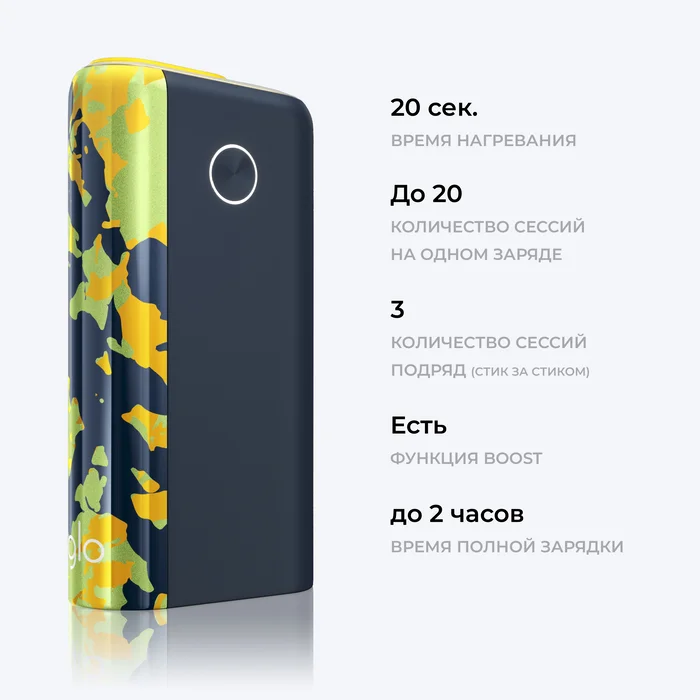
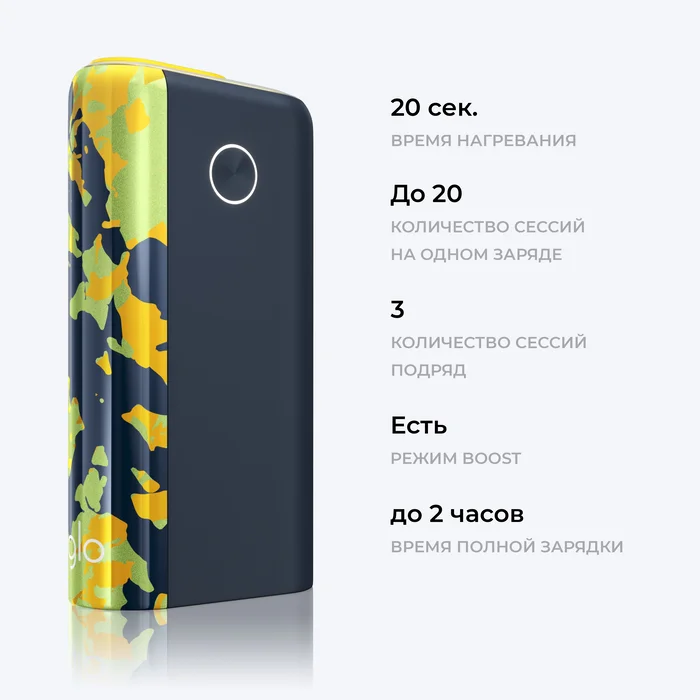
20220328

Changed region(s): [[0.54, 0.63, 0.78, 0.66], [0.66, 0.51, 0.84, 0.54], [0.66, 0.72, 0.72, 0.75]]

diff --git a/pages/warranty.vue b/pages/warranty.vue
@@ -3,12 +3,12 @@
     <div class="container pv-10">
       <div v-if="$i18n.locale != 'uz'">
         <h1 data-title-line>ГАРАНТИЯ</h1>
-        <p>Действие гарантии Настоящая гарантия предоставляется АО СП «УЗБАТ А.О.» покупателям, которые законно приобрели устройство для нагревания табака glo и его комплектующие (далее – «Товар» или «Устройство glo») на территории Республики Узбекистан. По условиям настоящей гарантии АО СП «УЗБАТ А.О.» при предъявлении покупателем требований о недостатках товара в течение гарантийного срока вправе по своему усмотрению: i) устранить неисправность Товара либо ii) заменить неисправный Товар на Товар, который не имеет дефектов. </p>
+        <p>Настоящая гарантия предоставляется АО СП «УЗБАТ А.О.» покупателям, которые законно приобрели устройство для нагревания табака glo и его комплектующие (далее – «Товар» или «Устройство glo») на территории Республики Узбекистан. По условиям настоящей гарантии АО СП «УЗБАТ А.О.» при предъявлении покупателем требований о недостатках товара в течение гарантийного срока вправе по своему усмотрению: i) устранить неисправность Товара либо ii) заменить неисправный Товар на Товар, который не имеет дефектов. </p>
         <p>Настоящая гарантия покрывает только такие неисправности, которые возникли в течение гарантийного срока, при условии надлежащего использования Устройства glo в соответствии с Руководством пользователя Устройства glo. </p>
         <p>Настоящая гарантия сохраняет свою силу, если покупатель передал Устройство glo третьему лицу. В таком случае покупатель обязуется предоставить настоящий гарантийный талон новому владельцу вместе с документами, подтверждающими факт приобретения Устройства glo. Товар, который был возвращен покупателем, становится собственностью АО СП «УЗБАТ А.О.». При замене товара любой предоставленный взамен товар становится собственностью покупателя. </p>
         <p>При замене Устройства glo или любого из его комплектующих гарантийный срок не исчисляется заново. Настоящая гарантия действительна только в Республике Узбекистан. </p>
         <h3>Срок гарантии</h3>
-        <p>Срок действия данной гарантии на отдельные комплектующие Устройства glo: Устройство для нагревания табака glo - 1 (один) год с даты покупки; USB-кабель - 1 (один) год с даты покупки; Щетка для чистки - 1 (один) год с даты покупки. Срок службы устройства для нагревания табака glo и его комплектующих составляет 12 (двенадцать) месяцев с даты покупки. </p>
+        <p>Срок действия данной гарантии на отдельные комплектующие Устройства glo: Устройство для нагревания табака glo - 1 год с даты покупки; USB-кабель - 1 год с даты покупки; Щетка для чистки - 1 год с даты покупки. Срок службы устройства для нагревания табака glo и его комплектующих составляет 12 (двенадцать) месяцев с даты покупки. </p>
         <h3>Исключения из гарантии</h3>
         <p>Следующие повреждения и неисправности являются исключением из гарантии: </p>
         <ul>
@@ -88,7 +88,7 @@ export default {
     
   },
   mounted(){
-    
+    $(".zoomContainer").remove()
   },
  
 }

diff --git a/pages/products/_product_id.vue b/pages/products/_product_id.vue
@@ -111,7 +111,7 @@
                         </svg>
                       </div>
                       <div class="desc-content ml-3">
-                        <h4>Функция Boost</h4>
+                        <h4>Режим Boost</h4>
                         <div>Ускоренный нагрев устройства за 15 секунд.</div>
                       </div>
                     </div>
@@ -123,8 +123,8 @@
                         </svg>
                       </div>
                       <div class="desc-content ml-3">
-                        <h4>До 20 сессий на одном заряде</h4>
-                        <div>Зарядка устройства занимает до 2 часов и обеспечивает до 20 сеансов использования.</div>
+                        <h4>До 20 сессий на одном заряде*</h4>
+                        <div>*Зарядка устройства занимает до 2 часов и обеспечивает до 20 сеансов при использовании в обычном режиме.</div>
                       </div>
                     </div>
                     <div class="item flex ai-center mv-7 ph-3">
@@ -163,7 +163,7 @@
                 <div>
                   <div class="mb-2">
                     Для качественной работы устройства необходимо чистить его после каждых 20 сеансов использования, 
-                    а при регулярном использовании функции Boost после каждых 10 сеансов. 
+                    а при регулярном использовании режима Boost - после каждых 10 сеансов. 
                     Используйте щеточку, чтобы прочищать камеру нагревания. 
                     Также удаляйте лишнюю влагу, чтобы устройство работало дольше.
                   </div>
@@ -900,9 +900,9 @@ export default {
       &.item-light{
         &:hover{
           path{
-            stroke-width: 2.5px;
-            animation: dash 7s linear 0s infinite;
-            stroke-dasharray: 1.4px;
+            stroke-width: 2.7px;
+            animation: dash 10s linear 0s infinite;
+            stroke-dasharray: 1.3px;
           }
         }
       }
